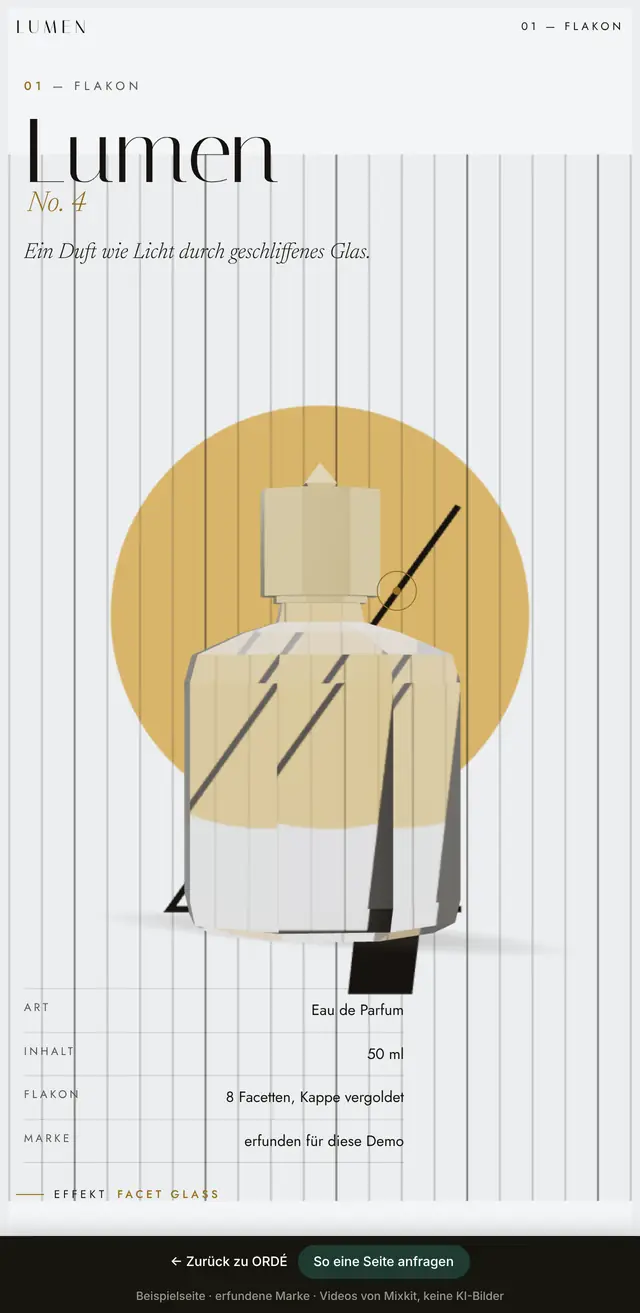
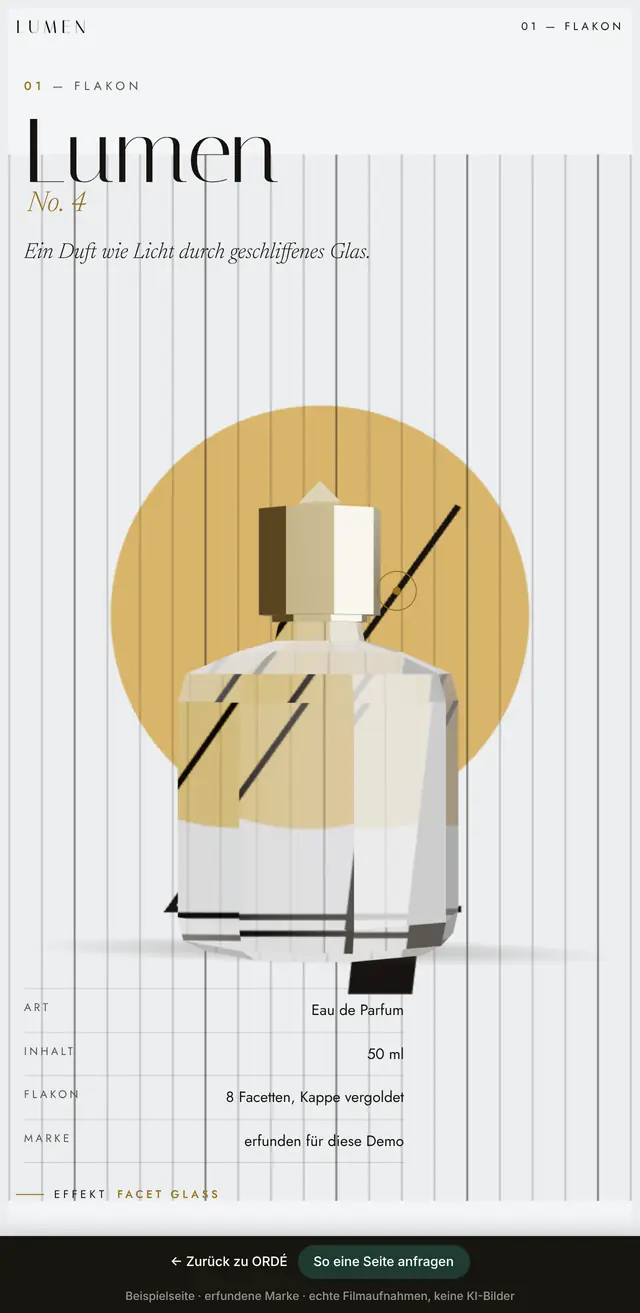
Showreels: Videoquelle nicht mehr nennen
Monolith, Lumen und Lichtfeld (deutsch und englisch) sagen jetzt
„echte Filmaufnahmen, keine KI-Bilder“ statt „Videos von Mixkit“, auch
im Rückkehr-Balken. Vorschaubilder neu erzeugt. Regel in CLAUDE.md
(Arturs Vorgabe vom 03.11.2026); Herkunft bleibt intern in
bibliothek/LIZENZEN.md belegt.

Claude-Session: https://claude.ai/code/session_01Y1TQqoZVWe5NoND9wqLr2G

Changed region(s): [[0.2188, 0.3435, 0.7188, 0.7494], [0.1875, 0.968, 0.7812, 0.9992]]

diff --git a/demos/monolith/index.html b/demos/monolith/index.html
@@ -239,7 +239,7 @@ canvas{display:block}
       <div class="real-fuss">
         <div class="real-titel" aria-live="polite">
           <h2 id="realTitel">Rohbau im <em>Gegenlicht.</em></h2>
-          <p id="realText">1920 × 1080 · 30 fps · Clip: Mixkit</p>
+          <p id="realText">1920 × 1080 · 30 fps · echte Aufnahme</p>
         </div>
         <span class="real-nr" id="realNr">01</span>
       </div>
@@ -269,13 +269,13 @@ canvas{display:block}
           <tr><td>A-200</td><td>Volumen</td><td>Bauteile wachsen aus dem Grundriss, Materialien blenden ein</td></tr>
           <tr><td>A-300</td><td>Sonnenstudie</td><td>Sonnenstand nach Breitengrad und Stundenwinkel, weiche Schatten</td></tr>
           <tr><td>A-400</td><td>Schnitt</td><td>Zwei Schnittebenen trennen Arbeitsmodell und Ausführung</td></tr>
-          <tr><td>A-500</td><td>Wirklichkeit</td><td>Vier Clips in Full HD von Mixkit, Fenster aus Schnittmasken</td></tr>
+          <tr><td>A-500</td><td>Wirklichkeit</td><td>Vier echte Clips in Full HD, Fenster aus Schnittmasken</td></tr>
         </tbody>
       </table>
     </div>
     <div class="ende-fuss">
       <button class="knopf" id="nochmal" type="button">Zurück zum Plan ↑</button>
-      <p class="hinweis">Monolith ist ein erfundenes Haus für diese Beispielseite, kein echtes Projekt. Die Videos sind echte Aufnahmen von Mixkit, keine KI-Bilder. Das 3D-Modell wird live im Browser berechnet, die Auflösung passt sich der Leistung des Geräts an. Gebaut von ORDÉ.</p>
+      <p class="hinweis">Monolith ist ein erfundenes Haus für diese Beispielseite, kein echtes Projekt. Die Videos sind echte Aufnahmen, keine KI-Bilder. Das 3D-Modell wird live im Browser berechnet, die Auflösung passt sich der Leistung des Geräts an. Gebaut von ORDÉ.</p>
     </div>
   </div>
 </section>
@@ -615,7 +615,7 @@ function initReal() {
       if (zeigen && geladen) { if (v.paused) { const pr = v.play(); pr && pr.catch(() => {}); } } else if (!v.paused) v.pause();
     });
     const k = clamp(Math.floor(p * N + .4), 0, N - 1);
-    if (k !== aktiv) { aktiv = k; titel.innerHTML = REAL[k][0]; text.textContent = `${REAL[k][1]} · 1920 × 1080 · 30 fps · Clip: Mixkit`; nr.textContent = zwei(k + 1); }
+    if (k !== aktiv) { aktiv = k; titel.innerHTML = REAL[k][0]; text.textContent = `${REAL[k][1]} · 1920 × 1080 · 30 fps · echte Aufnahme`; nr.textContent = zwei(k + 1); }
   }, aus() { vids.forEach(v => v.pause()); } });
 }
 
@@ -654,7 +654,7 @@ if (window.gsap && !RM) {
 
 <div id="ordeBalken">
   <a href="../../referenzen.html">&larr; Zur&uuml;ck zu ORD&Eacute;</a>
-  <span>Beispielseite &middot; erfundenes Projekt &middot; Videos von Mixkit, keine KI-Bilder</span>
+  <span>Beispielseite &middot; erfundenes Projekt &middot; echte Filmaufnahmen, keine KI-Bilder</span>
   <a class="ordeCta" href="../../anfrage.html">So eine Seite anfragen</a>
 </div>
 <style>

diff --git a/demos/monolith/en.html b/demos/monolith/en.html
@@ -239,7 +239,7 @@ canvas{display:block}
       <div class="real-fuss">
         <div class="real-titel" aria-live="polite">
           <h2 id="realTitel">The shell, <em>backlit.</em></h2>
-          <p id="realText">1920 × 1080 · 30 fps · Clip: Mixkit</p>
+          <p id="realText">1920 × 1080 · 30 fps · real footage</p>
         </div>
         <span class="real-nr" id="realNr">01</span>
       </div>
@@ -269,13 +269,13 @@ canvas{display:block}
           <tr><td>A-200</td><td>Massing</td><td>Building elements rise from the floor plan, materials fade in</td></tr>
           <tr><td>A-300</td><td>Sun study</td><td>Sun position from latitude and hour angle, soft shadows</td></tr>
           <tr><td>A-400</td><td>Section</td><td>Two section planes separate working model and built design</td></tr>
-          <tr><td>A-500</td><td>Reality</td><td>Four Full HD clips from Mixkit, windows cut with clipping masks</td></tr>
+          <tr><td>A-500</td><td>Reality</td><td>Four real Full HD clips, windows cut with clipping masks</td></tr>
         </tbody>
       </table>
     </div>
     <div class="ende-fuss">
       <button class="knopf" id="nochmal" type="button">Back to the plan ↑</button>
-      <p class="hinweis">Monolith is a made-up house for this example site, not a real project. The videos are real footage from Mixkit, no AI images. The 3D model is rendered live in your browser, and its resolution adapts to your device. Built by ORDÉ.</p>
+      <p class="hinweis">Monolith is a made-up house for this example site, not a real project. The videos are real footage, no AI images. The 3D model is rendered live in your browser, and its resolution adapts to your device. Built by ORDÉ.</p>
     </div>
   </div>
 </section>
@@ -615,7 +615,7 @@ function initReal() {
       if (zeigen && geladen) { if (v.paused) { const pr = v.play(); pr && pr.catch(() => {}); } } else if (!v.paused) v.pause();
     });
     const k = clamp(Math.floor(p * N + .4), 0, N - 1);
-    if (k !== aktiv) { aktiv = k; titel.innerHTML = REAL[k][0]; text.textContent = `${REAL[k][1]} · 1920 × 1080 · 30 fps · Clip: Mixkit`; nr.textContent = zwei(k + 1); }
+    if (k !== aktiv) { aktiv = k; titel.innerHTML = REAL[k][0]; text.textContent = `${REAL[k][1]} · 1920 × 1080 · 30 fps · real footage`; nr.textContent = zwei(k + 1); }
   }, aus() { vids.forEach(v => v.pause()); } });
 }
 
@@ -654,7 +654,7 @@ if (window.gsap && !RM) {
 
 <div id="ordeBalken">
   <a href="../../en/examples.html">&larr; Back to ORD&Eacute;</a>
-  <span>Example site &middot; made-up project &middot; videos from Mixkit, no AI images</span>
+  <span>Example site &middot; made-up project &middot; real footage, no AI images</span>
   <a class="ordeCta" href="../../en/contact.html">Request a site like this</a>
 </div>
 <style>

diff --git a/demos/lichtfeld/index.html b/demos/lichtfeld/index.html
@@ -326,7 +326,7 @@ canvas{display:block}
     <h2>Bild wird <em>Flüssigkeit.</em></h2>
     <div class="fluss-fuss">
       <p class="mono">Bewege die Maus oder den Finger über das Bild. Ein Shader verbiegt das laufende Video, sechzigmal pro Sekunde. Schnelles Scrollen spaltet die Farben.</p>
-      <p class="etikett">Clip: Mixkit · frei lizenziert</p>
+      <p class="etikett">Echte Aufnahme · frei lizenziert</p>
     </div>
   </div>
 </section>
@@ -344,11 +344,11 @@ canvas{display:block}
       <div><dt>Rhythmus</dt><dd>Horizontale Fahrt, Neigung nach Scrollgeschwindigkeit</dd></div>
       <div><dt>Fluss</dt><dd>Wellenverzerrung und Farbspaltung auf laufendem Video</dd></div>
       <div><dt>Schrift</dt><dd>Archivo (variable Breite), Bodoni Moda, IBM Plex Mono</dd></div>
-      <div><dt>Clips</dt><dd>Mixkit, frei lizenziert</dd></div>
+      <div><dt>Clips</dt><dd>Echte Filmaufnahmen, frei lizenziert</dd></div>
     </dl>
     <div class="abspann-fuss">
       <button class="knopf" id="nochmal" type="button">Nochmal von vorn <span aria-hidden="true">↑</span></button>
-      <p class="hinweis">Abstrakte Beispielseite, kein echter Betrieb. Die Videos sind echte Aufnahmen von Mixkit, keine KI-Bilder. Gebaut von ORDÉ als eine einzige HTML-Datei.</p>
+      <p class="hinweis">Abstrakte Beispielseite, kein echter Betrieb. Die Videos sind echte Aufnahmen, keine KI-Bilder. Gebaut von ORDÉ als eine einzige HTML-Datei.</p>
     </div>
   </div>
 </section>
@@ -903,7 +903,7 @@ if (window.gsap && !RM) {
 
 <div id="ordeBalken">
   <a href="../../referenzen.html">&larr; Zur&uuml;ck zu ORD&Eacute;</a>
-  <span>Beispielseite &middot; kein echter Betrieb &middot; Videos von Mixkit, keine KI-Bilder</span>
+  <span>Beispielseite &middot; kein echter Betrieb &middot; echte Filmaufnahmen, keine KI-Bilder</span>
   <a class="ordeCta" href="../../anfrage.html">So eine Seite anfragen</a>
 </div>
 <style>

diff --git a/demos/lichtfeld/en.html b/demos/lichtfeld/en.html
@@ -326,7 +326,7 @@ canvas{display:block}
     <h2>Footage turns <em>liquid.</em></h2>
     <div class="fluss-fuss">
       <p class="mono">Drag your mouse or finger across the image. A shader warps the playing video sixty times a second. Scroll fast and the colors split apart.</p>
-      <p class="etikett">Clip: Mixkit · free license</p>
+      <p class="etikett">Real footage · free license</p>
     </div>
   </div>
 </section>
@@ -344,11 +344,11 @@ canvas{display:block}
       <div><dt>Rhythm</dt><dd>Horizontal track, tilt driven by scroll speed</dd></div>
       <div><dt>Flow</dt><dd>Ripple distortion and color split on live video</dd></div>
       <div><dt>Type</dt><dd>Archivo (variable width), Bodoni Moda, IBM Plex Mono</dd></div>
-      <div><dt>Clips</dt><dd>Mixkit, free license</dd></div>
+      <div><dt>Clips</dt><dd>Real footage, free license</dd></div>
     </dl>
     <div class="abspann-fuss">
       <button class="knopf" id="nochmal" type="button">Play it again <span aria-hidden="true">↑</span></button>
-      <p class="hinweis">Abstract example site, not a real business. The videos are real footage from Mixkit, no AI images. Built by ORDÉ as a single HTML file.</p>
+      <p class="hinweis">Abstract example site, not a real business. The videos are real footage, no AI images. Built by ORDÉ as a single HTML file.</p>
     </div>
   </div>
 </section>
@@ -903,7 +903,7 @@ if (window.gsap && !RM) {
 
 <div id="ordeBalken">
   <a href="../../en/examples.html">&larr; Back to ORD&Eacute;</a>
-  <span>Example site &middot; not a real business &middot; videos from Mixkit, no AI images</span>
+  <span>Example site &middot; not a real business &middot; real footage, no AI images</span>
   <a class="ordeCta" href="../../en/contact.html">Request a site like this</a>
 </div>
 <style>

diff --git a/demos/lumen/index.html b/demos/lumen/index.html
@@ -281,11 +281,11 @@ canvas{display:block}
       <div><dt>Particle Morph</dt><dd>Teilchen formen Flakon, Nebel und Schriftzug, Maus als Kraftfeld</dd></div>
       <div><dt>Golden Portal</dt><dd>Drei Ringe aus Gold, Lichtwirbel aus einem Video im Shader, Flug hindurch</dd></div>
       <div><dt>Schrift</dt><dd>Italiana, Newsreader, Jost</dd></div>
-      <div><dt>Clips</dt><dd>Mixkit, frei lizenziert</dd></div>
+      <div><dt>Clips</dt><dd>Echte Filmaufnahmen, frei lizenziert</dd></div>
     </dl>
     <div class="abspann-fuss">
       <button class="knopf" id="nochmal" type="button">Zurück zum Flakon ↑</button>
-      <p class="hinweis">Lumen No. 4 ist eine erfundene Marke für diese Beispielseite, kein echtes Produkt. Die Videos sind echte Aufnahmen von Mixkit, keine KI-Bilder. Flakon, Glas, Teilchen und Portal werden live im Browser berechnet. Gebaut von ORDÉ als eine einzige HTML-Datei.</p>
+      <p class="hinweis">Lumen No. 4 ist eine erfundene Marke für diese Beispielseite, kein echtes Produkt. Die Videos sind echte Aufnahmen, keine KI-Bilder. Flakon, Glas, Teilchen und Portal werden live im Browser berechnet. Gebaut von ORDÉ als eine einzige HTML-Datei.</p>
     </div>
   </div>
 </section>
@@ -803,7 +803,7 @@ if (window.gsap && !RM) {
 
 <div id="ordeBalken">
   <a href="../../referenzen.html">&larr; Zur&uuml;ck zu ORD&Eacute;</a>
-  <span>Beispielseite &middot; erfundene Marke &middot; Videos von Mixkit, keine KI-Bilder</span>
+  <span>Beispielseite &middot; erfundene Marke &middot; echte Filmaufnahmen, keine KI-Bilder</span>
   <a class="ordeCta" href="../../anfrage.html">So eine Seite anfragen</a>
 </div>
 <style>

diff --git a/demos/lumen/en.html b/demos/lumen/en.html
@@ -281,11 +281,11 @@ canvas{display:block}
       <div><dt>Particle Morph</dt><dd>Particles form flacon, mist and wordmark; the mouse acts as a force field</dd></div>
       <div><dt>Golden Portal</dt><dd>Three gold rings, a swirl of light drawn from video in a shader, a flight through</dd></div>
       <div><dt>Typefaces</dt><dd>Italiana, Newsreader, Jost</dd></div>
-      <div><dt>Footage</dt><dd>Mixkit, free license</dd></div>
+      <div><dt>Footage</dt><dd>Real footage, free license</dd></div>
     </dl>
     <div class="abspann-fuss">
       <button class="knopf" id="nochmal" type="button">Back to the flacon ↑</button>
-      <p class="hinweis">Lumen No. 4 is a made-up brand for this example site, not a real product. The videos are real footage from Mixkit, no AI images. Flacon, glass, particles and portal are rendered live in the browser. Built by ORDÉ as a single HTML file.</p>
+      <p class="hinweis">Lumen No. 4 is a made-up brand for this example site, not a real product. The videos are real footage, no AI images. Flacon, glass, particles and portal are rendered live in the browser. Built by ORDÉ as a single HTML file.</p>
     </div>
   </div>
 </section>
@@ -803,7 +803,7 @@ if (window.gsap && !RM) {
 
 <div id="ordeBalken">
   <a href="../../en/examples.html">&larr; Back to ORD&Eacute;</a>
-  <span>Example site &middot; made-up brand &middot; videos from Mixkit, no AI images</span>
+  <span>Example site &middot; made-up brand &middot; real footage, no AI images</span>
   <a class="ordeCta" href="../../en/contact.html">Request a site like this</a>
 </div>
 <style>

diff --git a/CLAUDE.md b/CLAUDE.md
@@ -22,9 +22,12 @@ zeigen, was technisch geht (WebGL, 3D, Simulationen) und erscheinen auf byorde.c
 in einem eigenen Abschnitt (`SHOWREELS` in `orde-website/build.py`), nicht in
 `BRANCHEN`. Abweichend von den sechs Demos:
 
-- **Keine KI-Bilder.** Die Videos sind von Mixkit, `spektrum` ist ganz berechnet.
-  Der Rückkehr-Balken sagt deshalb „Videos von Mixkit, keine KI-Bilder“ statt
-  „Bilder mit KI erzeugt“. Kommt je ein KI-Bild dazu, muss der Hinweis zurück.
+- **Keine KI-Bilder.** Die Videos sind echte, frei lizenzierte Stockaufnahmen, `spektrum`
+  ist ganz berechnet. Der Rückkehr-Balken sagt deshalb „echte Filmaufnahmen, keine KI-Bilder“
+  statt „Bilder mit KI erzeugt“. Kommt je ein KI-Bild dazu, muss der Hinweis zurück.
+- **Plattform nicht nennen** (Arturs Vorgabe, 03.11.2026): Auf den Seiten steht nicht, woher
+  ein Video stammt (kein „Mixkit“). Die Herkunft steht intern in `bibliothek/LIZENZEN.md`
+  bzw. der `QUELLEN.md` des Projekts. Quellen und Regeln: `Business-Handbuch/werkzeuge/website/VIDEOQUELLEN.md`.
 - **Nichts von fremden Servern.** Three.js, GSAP, Lenis und alle Schriften liegen
   in `demos/bibliothek/`. Keine CDN-Links und kein Google Fonts einbauen, sonst
   stimmt die Datenschutzerklärung von byorde.com nicht mehr.
